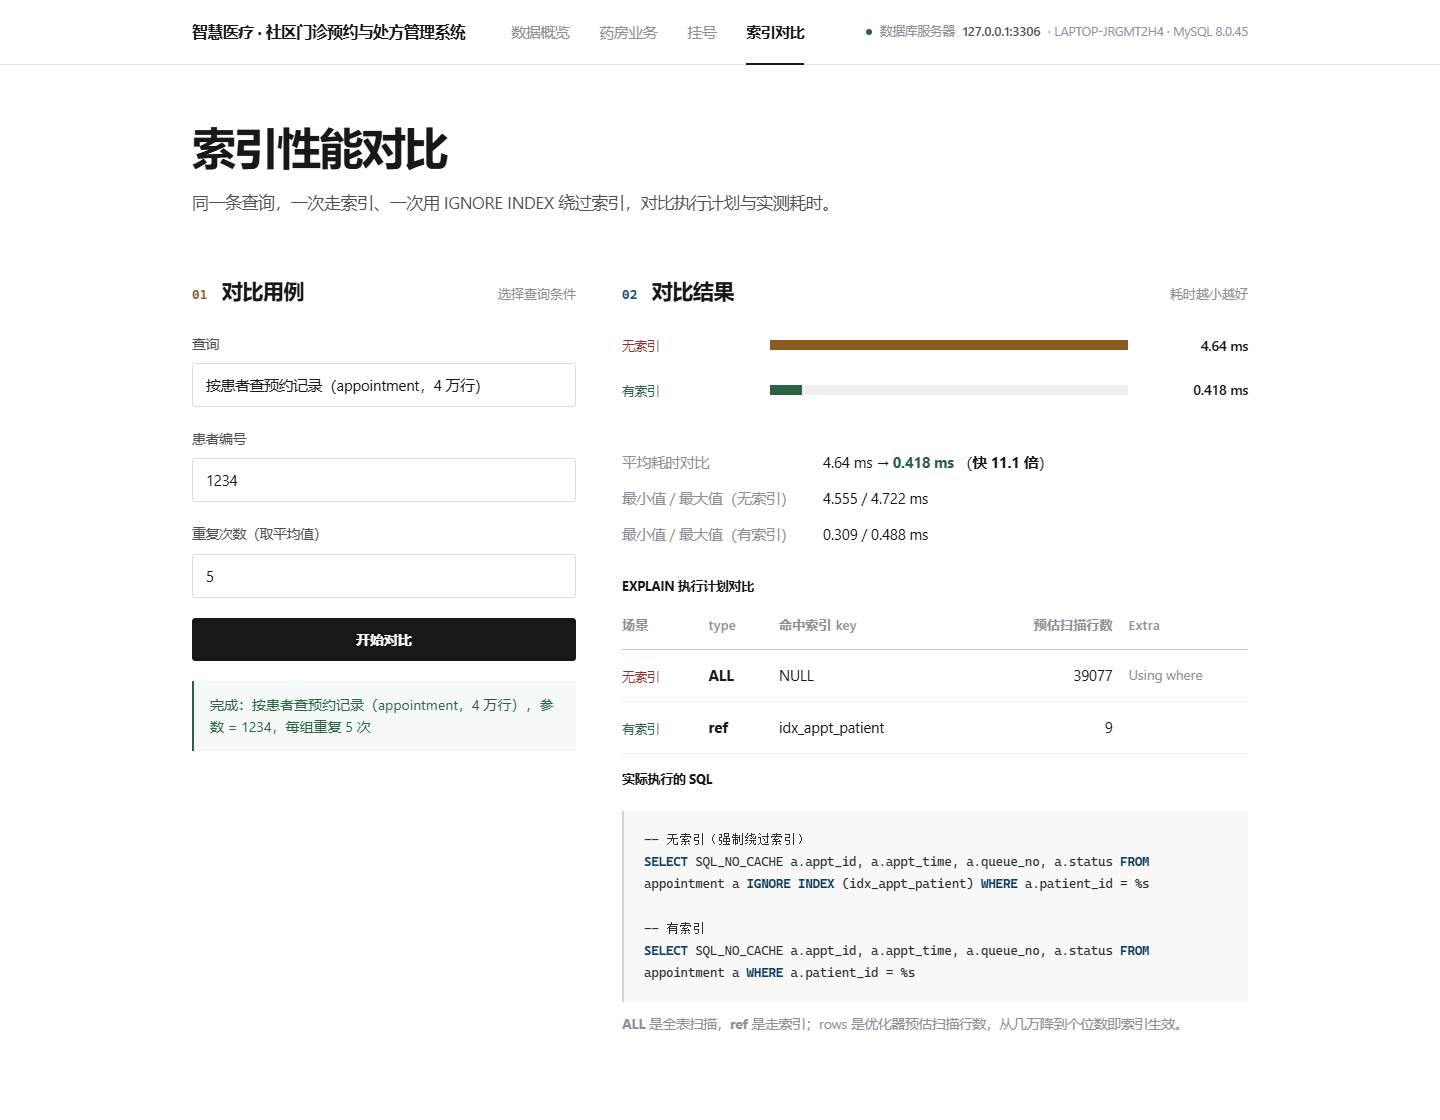
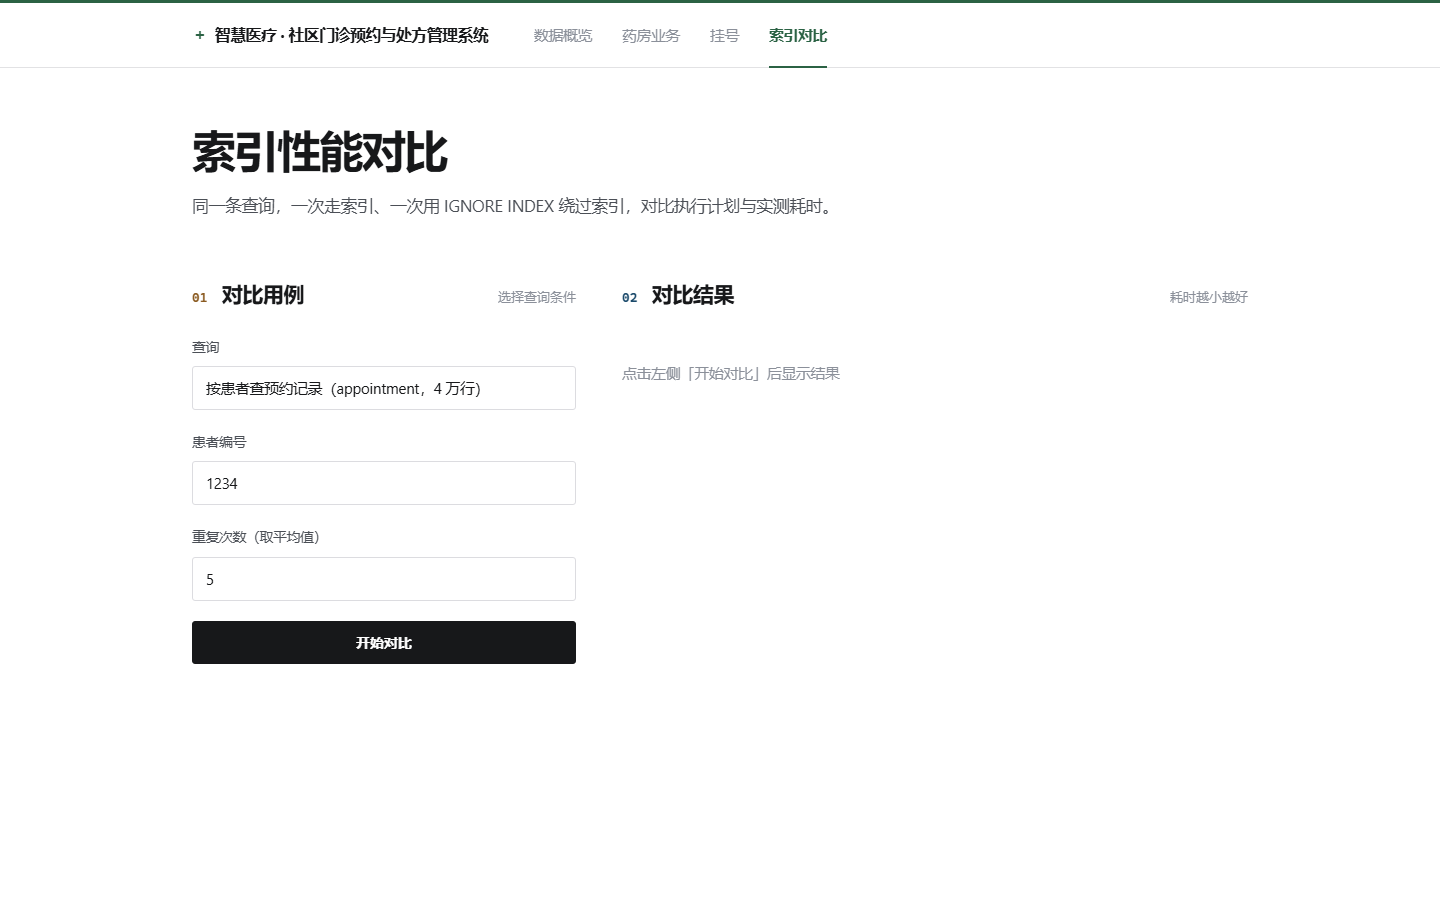
顶栏加入深绿色点缀（顶部细线、品牌十字、选中菜单），去掉数据库服务器地址排版，菜单加绿色滑动指示条，切换页面时从上一个位置滑到当前项

diff --git a/作业1_智慧医疗门诊预约系统/webapp/templates/base.html b/作业1_智慧医疗门诊预约系统/webapp/templates/base.html
@@ -10,22 +10,15 @@
 
 <div class="topbar">
   <div class="topbar-inner">
-    <div class="brand"><span class="logo">＋</span>{{ APP_TITLE }}</div>
-    <nav class="topnav">
+    <a class="brand" href="{{ url_for('main.dashboard') }}"><span class="logo">＋</span>{{ APP_TITLE }}</a>
+    <nav class="topnav" id="topnav">
       <a href="{{ url_for('main.dashboard') }}"  class="{{ 'active' if request.endpoint=='main.dashboard' }}">数据概览</a>
       <a href="{{ url_for('main.ops_page') }}"     class="{{ 'active' if request.endpoint=='main.ops_page' }}">药房业务</a>
       <a href="{{ url_for('main.register_page') }}" class="{{ 'active' if request.endpoint=='main.register_page' }}">挂号</a>
       <a href="{{ url_for('main.perf_page') }}"    class="{{ 'active' if request.endpoint=='main.perf_page' }}">索引对比</a>
     </nav>
-    <div class="conn-chip" title="浏览器→Flask(本机)→MySQL(Linux服务器)，数据实际存放在下面这台服务器上">
-      <span class="dot {{ '' if conn.ok else 'bad' }}"></span>
-      {% if conn.ok %}
-        数据库服务器 <b>{{ conn.host }}:{{ conn.port }}</b> · {{ conn.hostname }} · MySQL {{ conn.version.split('-')[0] }}
-      {% else %}
-        数据库未连接 <b>{{ conn.host }}:{{ conn.port }}</b>
-      {% endif %}
-    </div>
   </div>
+  <span class="nav-ind" aria-hidden="true"></span>
 </div>
 
 <div class="wrap">
@@ -92,6 +85,79 @@ function highlightSQL(sql) {
   });
   return '<pre class="sql">' + out + '</pre>';
 }
+/* ---------- 顶栏导航：绿色指示条在菜单之间滑动 ---------- */
+(function () {
+  const bar = document.querySelector('.topbar');
+  const nav = document.getElementById('topnav');
+  if (!bar || !nav) return;
+  const ind = bar.querySelector('.nav-ind');
+  const link = nav.querySelector('a.active');
+  if (!ind || !link) return;
+
+  const KEY = 'navIndicator';
+  let prev = null;
+  try { prev = JSON.parse(sessionStorage.getItem(KEY) || 'null'); } catch (e) { prev = null; }
+
+  // 指示条挂在顶栏上，按「菜单相对顶栏」的位置摆放，
+  // 这样窄屏换行后依然能贴住顶栏底边
+  function geometry() {
+    const b = bar.getBoundingClientRect();
+    const r = link.getBoundingClientRect();
+    return {l: Math.round(r.left - b.left), w: Math.round(r.width)};
+  }
+  function put(g) { ind.style.left = g.l + 'px'; ind.style.width = g.w + 'px'; }
+
+  let last = {l: -1, w: -1};
+  // 静默贴位：不带动画（用于字体、窗口尺寸变化后的校正）
+  function sync() {
+    const g = geometry();
+    if (g.l === last.l && g.w === last.w) return;
+    last = g;
+    ind.style.transition = 'none';
+    put(g);
+    requestAnimationFrame(function () { ind.style.transition = ''; });
+    try { sessionStorage.setItem(KEY, JSON.stringify(g)); } catch (e) {}
+  }
+
+  // 等字体落定再落位：字体替换会让整排菜单平移，先摆再滑会偏
+  let started = false;
+  function start() {
+    if (started) return;
+    started = true;
+    const now = geometry();
+    last = now;
+    if (prev && typeof prev.l === 'number' && (prev.l !== now.l || prev.w !== now.w)) {
+      // 先把指示条摆在上一个页面的位置，再滑到当前位置
+      ind.style.transition = 'none';
+      put(prev);
+      void ind.offsetWidth;
+      ind.style.transition = '';
+      ind.classList.add('on');
+      requestAnimationFrame(function () { put(now); });
+    } else {
+      put(now);
+      ind.classList.add('on');
+    }
+    nav.classList.add('has-ind');
+    try { sessionStorage.setItem(KEY, JSON.stringify(now)); } catch (e) {}
+  }
+
+  if (document.fonts && document.fonts.ready) {
+    document.fonts.ready.then(function () { requestAnimationFrame(start); });
+  }
+  window.addEventListener('load', function () { requestAnimationFrame(start); });
+  setTimeout(start, 800);                       // 兜底：字体接口不可用时
+
+  // 仍有一次字体/排版微调的可能，前 1.2 秒内悄悄跟一次
+  let ticks = 0;
+  const timer = setInterval(function () {
+    if (started) sync();
+    if (++ticks >= 15) clearInterval(timer);
+  }, 80);
+  window.addEventListener('resize', sync);
+  // 字体替换会改变品牌与菜单的宽度分配，导航尺寸一变就跟着贴位
+  if (window.ResizeObserver) new ResizeObserver(function () { if (started) sync(); }).observe(nav);
+})();
 </script>
 {% block scripts %}{% endblock %}
 </body>

diff --git a/作业1_智慧医疗门诊预约系统/webapp/static/style.css b/作业1_智慧医疗门诊预约系统/webapp/static/style.css
@@ -66,6 +66,7 @@ a:hover { text-decoration: underline; text-underline-offset: 3px; }
 /* ---------------- 顶栏 ---------------- */
 .topbar {
   background: rgba(255, 255, 255, .94);
+  border-top: 3px solid var(--green);
   border-bottom: 1px solid var(--rule);
   position: sticky; top: 0; z-index: 50;
   backdrop-filter: saturate(180%) blur(10px);
@@ -75,30 +76,38 @@ a:hover { text-decoration: underline; text-underline-offset: 3px; }
   display: flex; align-items: center; gap: 46px; height: 64px;
 }
 .brand {
+  display: inline-flex; align-items: center; gap: 7px;
   font-size: 15.5px; font-weight: 700; letter-spacing: -.01em;
   color: var(--ink); white-space: nowrap;
 }
-.brand .logo { display: none; }
+a.brand:hover { text-decoration: none; }
+.brand .logo {
+  display: inline-block; color: var(--green);
+  font-size: 16px; font-weight: 700; line-height: 1;
+  transform: translateY(-1px);
+}
 
-nav.topnav { display: flex; gap: 30px; flex: 1; height: 64px; }
+nav.topnav { position: relative; display: flex; gap: 30px; flex: 1; height: 64px; }
 nav.topnav a {
   display: flex; align-items: center; position: relative;
   padding: 0; border: 0; color: var(--ink-3); font-size: 14.5px;
 }
 nav.topnav a:hover { color: var(--ink); text-decoration: none; }
-nav.topnav a.active { color: var(--ink); font-weight: 600; }
+nav.topnav a.active { color: var(--green); font-weight: 650; }
+/* 没有脚本时用静态下划线兜底，脚本接管后交给滑动指示条 */
 nav.topnav a.active::after {
   content: ""; position: absolute; left: 0; right: 0; bottom: -1px;
-  height: 2px; background: var(--ink);
+  height: 2px; background: var(--green);
 }
+nav.topnav.has-ind a.active::after { display: none; }
 
-.conn-chip {
-  display: flex; align-items: center; gap: 8px;
-  font-size: 12.5px; color: var(--ink-3); white-space: nowrap;
+.nav-ind {
+  position: absolute; left: 0; bottom: -1px; width: 0; height: 2px;
+  background: var(--green); opacity: 0; pointer-events: none;
+  transition: left .36s cubic-bezier(.34, .05, .2, 1),
+              width .36s cubic-bezier(.34, .05, .2, 1);
 }
-.conn-chip b { color: var(--ink-2); font-weight: 500; }
-.dot { width: 6px; height: 6px; border-radius: 50%; background: var(--green); flex: none; }
-.dot.bad { background: var(--red); }
+.nav-ind.on { opacity: 1; }
 
 /* ---------------- 版心 ---------------- */
 .wrap { max-width: 1120px; margin: 0 auto; padding: 58px 32px 110px; }
@@ -530,7 +539,6 @@ button.close:hover { background: #f4f4f5; color: var(--ink); opacity: 1; }
   nav.topnav { height: auto; gap: 22px; }
   nav.topnav a { padding: 4px 0; }
   nav.topnav a.active::after { bottom: -3px; }
-  .conn-chip { display: none; }
   .wrap { padding: 40px 20px 80px; }
   .page-head { margin-bottom: 42px; }
   .page-head h1 { font-size: 31px; letter-spacing: -.03em; }
